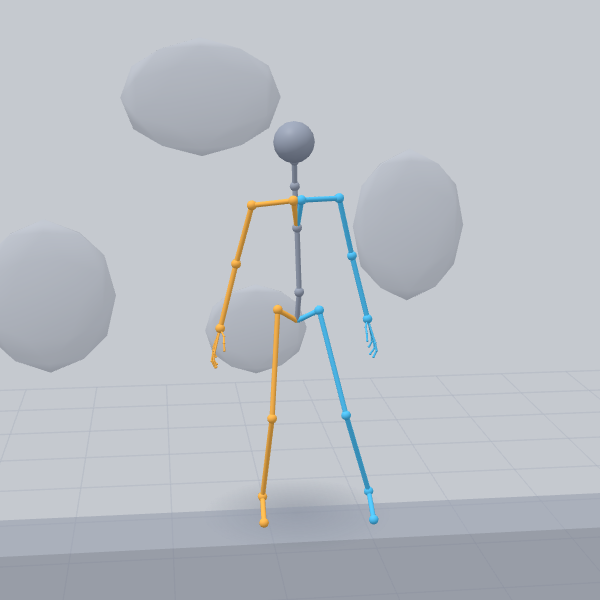
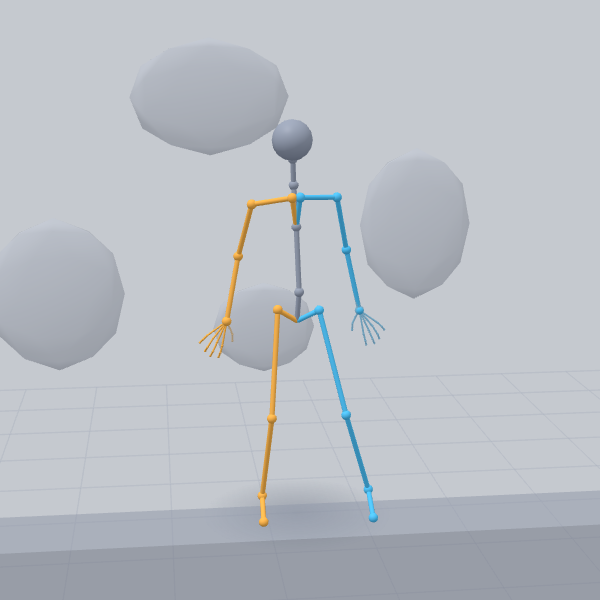
Rest the palms on the wall along a ledge
The touch controller gets a brace mode: the caller gives, every frame, the
point, the normal, the direction of the fingers and the weight, and the
hand rests on the surface with the same pose as when touching, without
reaching or letting go.

Along a ledge, each palm rests on the wall beside the hips, a little below
them, with the fingers pointing down and slightly out. The wall behind
each hand is measured like the one behind the back (one hand per frame),
so the palms slide along it with the body and follow its bumps; where
there is no wall behind a hand, that arm hangs as before.

diff --git a/src/locomotion/LocomotionController.ts b/src/locomotion/LocomotionController.ts
@@ -344,6 +344,15 @@ const LEDGE_ROLL = 0.15;
  */
 const LEDGE_WALL_REACH = 0.8;
 const BACK_HALF_WIDTH = 0.18;
+/**
+ * Along a ledge, the palms rest on the wall behind: each one LEDGE_HAND_SPREAD to the side of the hips and
+ * LEDGE_HAND_HEIGHT above them (× stepLength; negative = below), the fingers pointing down and LEDGE_FINGERS_OUT out
+ * to the side (rad). The wall is looked for in a band of ±LEDGE_HAND_BAND (× stepLength) around that height.
+ */
+const LEDGE_HAND_SPREAD = 0.4;
+const LEDGE_HAND_HEIGHT = -0.08;
+const LEDGE_FINGERS_OUT = (25 * Math.PI) / 180;
+const LEDGE_HAND_BAND = 0.1;
 const LEDGE_CENTERING = 8;
 /**
  * Against an irregular wall, how much the trunk leans (back or forward) to keep both the hips and the shoulder
@@ -526,6 +535,12 @@ export class LocomotionController {
    */
   private readonly wallSamples: number[] = new Array<number>(6).fill(Number.NEGATIVE_INFINITY);
   private wallSample = 0;
+  /** Where the wall is behind each hand along a ledge (m along `ledgeFacing`, like `wallSamples`); one measured per frame. */
+  private readonly handWall: Record<Side, number> = { left: Number.NEGATIVE_INFINITY, right: Number.NEGATIVE_INFINITY };
+  private handWallSide: Side = 'left';
+  private readonly handAt = new Vector3();
+  private readonly handRight = new Vector3();
+  private readonly handFingers = new Vector3();
   /** Along an irregular wall: lean of the trunk (rad, + forward) and how far the hips go back (m). */
   private ledgeLean = 0;
   private ledgeHipBack = 0;
@@ -729,6 +744,7 @@ export class LocomotionController {
     this.ledgeLean = 0;
     this.ledgeHipBack = 0;
     this.wallSamples.fill(Number.NEGATIVE_INFINITY);
+    this.handWall.left = this.handWall.right = Number.NEGATIVE_INFINITY;
     this.planner.landingShift.set(0, 0, 0);
     this.stairLimit = Number.POSITIVE_INFINITY;
     this.stairLean = 0;
@@ -1127,6 +1143,7 @@ export class LocomotionController {
     }
     this.lastRootHeight = rootHeight;
     this.touch.update(this.touchMotion(dt), this.surfaces);
+    this.braceOnWall(kl);
     // Haciendo equilibrio, con una mano apoyada en algo (una baranda, una pared) ya se sostiene: el otro brazo baja
     // casi a la pose normal (narrowTouchRelax) y deja de corregir.
     const steadied = Math.max(this.touch.weight('left'), this.touch.weight('right')) * c.narrowTouchRelax;
@@ -2072,6 +2089,45 @@ export class LocomotionController {
     }
     this.ledgeLean += (lean * kl - this.ledgeLean) * follow;
     this.ledgeHipBack += (hipBack * kl - this.ledgeHipBack) * follow;
+  }
+
+  /**
+   * Along a ledge, the palms against the wall behind, on each side of the hips (see LEDGE_HAND_SPREAD), with the
+   * fingers pointing down and out: the touch controller's `brace`, as much as the ledge blend. Where there is no
+   * wall within reach behind a hand, that hand swings as usual.
+   */
+  private braceOnWall(kl: number): void {
+    const s = this.body.state;
+    const measured = this.handWallSide;
+    this.handWallSide = measured === 'left' ? 'right' : 'left';
+    const active = kl > 0 && this.ledgeFaced && !s.airborne;
+    for (const side of SIDES) {
+      if (!active) {
+        this.handWall[side] = Number.NEGATIVE_INFINITY;
+        this.touch.brace(side, this.handAt, UP, UP, 0);
+        continue;
+      }
+      const out = this.ledgeFacing;
+      const unit = this.config.stepLength;
+      const sign = side === 'right' ? 1 : -1;
+      const right = this.handRight.crossVectors(out, UP).normalize();
+      const at = worldPosition(this.rig.hips, this.handAt).addScaledVector(right, sign * LEDGE_HAND_SPREAD * unit);
+      at.y += LEDGE_HAND_HEIGHT * unit;
+      const base = at.x * out.x + at.z * out.z;
+      if (side === measured) {
+        const band = LEDGE_HAND_BAND * unit;
+        const reach = LEDGE_WALL_REACH * unit;
+        this.handWall[side] = base - this.ledgePath.wallDistance(at, out, at.y - band, at.y + band, reach, base - this.handWall[side], this.ledgeRays);
+      }
+      const wall = this.handWall[side];
+      if (!Number.isFinite(wall)) {
+        this.touch.brace(side, at, out, UP, 0);
+        continue;
+      }
+      at.addScaledVector(out, wall - base);
+      const fingers = this.handFingers.copy(UP).multiplyScalar(-Math.cos(LEDGE_FINGERS_OUT)).addScaledVector(right, sign * Math.sin(LEDGE_FINGERS_OUT));
+      this.touch.brace(side, at, out, fingers, kl);
+    }
   }
 
   /**

diff --git a/src/body/TouchController.ts b/src/body/TouchController.ts
@@ -108,6 +108,8 @@ interface Hand {
   phase: TouchPhase;
   /** How much the gesture overrides the swing (0–1) and its value when the phase started. */
   weight: number;
+  /** Resting on a surface that the caller follows every frame (see `brace`): no reaching or letting go. */
+  braced: boolean;
   from: number;
   /** Time in the current phase (s). */
   time: number;
@@ -439,6 +441,7 @@ export class TouchController {
     for (const hand of Object.values(this.hands)) {
       hand.phase = 'none';
       hand.weight = 0;
+      hand.braced = false;
     }
     this.cooldown = 0;
     this.scanTimer = 0;
@@ -486,6 +489,42 @@ export class TouchController {
   }
 
   /**
+   * Keeps a hand resting on a surface that the caller follows every frame, e.g. the wall behind the back along a
+   * ledge: the palm against it at `point` (world) with `normal` (towards the character) and the fingers pointing
+   * along `fingers` (on the surface). `weight` (0–1) is how much it overrides the swing: the caller blends it in
+   * and out, there is no gesture of reaching or letting go (with 0 the hand goes back to the swing). Takes over any
+   * gesture of that hand. After `update` and before `apply`.
+   */
+  brace(side: Side, point: Vector3, normal: Vector3, fingers: Vector3, weight: number): void {
+    const hand = this.hands[side];
+    if (!hand) return;
+    if (!(weight > 0)) {
+      if (hand.braced) {
+        hand.braced = false;
+        hand.phase = 'none';
+        hand.weight = 0;
+        hand.hasActual = false;
+      }
+      return;
+    }
+    if (!hand.braced) {
+      hand.braced = true;
+      hand.phase = 'contact';
+      hand.hold = true;
+      hand.slide = false;
+      hand.time = 0;
+      hand.bulgeSet = false;
+      hand.pathSet = false;
+    }
+    hand.point.copy(point);
+    hand.normal.copy(normal).normalize();
+    this.finger.copy(fingers).addScaledVector(hand.normal, -fingers.dot(hand.normal)).normalize();
+    worldPosition(hand.bones.upperArm, this.shoulder);
+    this.contactPose(hand, hand.point, hand.normal, this.shoulder, hand.wrist, hand.rotation, this.finger);
+    hand.weight = Math.min(weight, 1);
+  }
+
+  /**
    * Advances the gestures and, in `auto` mode, looks for surfaces. Before moving the arms (the fingers open
    * with `weight`).
    */
@@ -506,7 +545,7 @@ export class TouchController {
     this.dt = dt;
     this.cooldown = Math.max(this.cooldown - dt, 0);
     for (const hand of Object.values(this.hands)) {
-      if (hand.phase === 'none') continue;
+      if (hand.phase === 'none' || hand.braced) continue;
       hand.time += dt;
       worldPosition(hand.bones.upperArm, this.shoulder);
       // Acercándose, cuenta dónde estará el hombro al tocar.
@@ -1248,6 +1287,7 @@ function createHand(side: Side, bones: ArmBones, sign: number): Hand {
     palmLocal: palm.applyQuaternion(inverse),
     phase: 'none',
     weight: 0,
+    braced: false,
     from: 0,
     time: 0,
     hold: false,

diff --git a/tests/ledge.test.ts b/tests/ledge.test.ts
@@ -157,6 +157,34 @@ describe('cornisas', () => {
     assert.ok(afterLedge === 0 && afterTurn < 3 * DEG, `en la plataforma: ledge ${afterLedge}, girado ${(afterTurn / DEG).toFixed(1)}°`);
   });
 
+  it('las palmas, apoyadas en la pared a cada lado de las caderas, con los dedos hacia abajo', () => {
+    const world = ledgeWorld();
+    const { human } = world;
+    let frames = 0;
+    let worst = 0;
+    let minWeight = 1;
+    let fingersUp = -Infinity;
+    simulate(world, 9, [[0, (h) => { h.targetSpeed = 1; }]], {
+      onFrame: () => {
+        // Ya asentado: al entrar, frenando, la espalda (y con ella las manos) aún se acerca a la pared.
+        if (human.ledge < 0.999 || ++frames < 60) return;
+        for (const side of SIDES) {
+          const arm = side === 'left' ? human.rig.leftArm! : human.rig.rightArm!;
+          const wrist = arm.hand.getWorldPosition(new Vector3());
+          const knuckle = (arm.fingers?.middle?.[0] ?? arm.hand).getWorldPosition(new Vector3());
+          // Muñeca y nudillos, a lo sumo a 3 cm de la pared (el grosor de la mano): la palma, plana sobre ella.
+          worst = Math.max(worst, WALL_X - wrist.x, WALL_X - knuckle.x);
+          minWeight = Math.min(minWeight, human.locomotion.touch.weight(side));
+          fingersUp = Math.max(fingersUp, knuckle.y - wrist.y);
+        }
+      },
+    });
+    assert.ok(frames > 180, `en la cornisa ${frames} frames`);
+    assert.ok(minWeight > 0.999, `apoyo ${minWeight.toFixed(3)}`);
+    assert.ok(worst < 0.03, `mano a ${(worst * 100).toFixed(1)} cm de la pared`);
+    assert.ok(fingersUp < 0, `dedos hacia arriba (${(fingersUp * 100).toFixed(1)} cm)`);
+  });
+
   it('contra una pared irregular, la espalda sigue en ella y el cuerpo no gira', () => {
     // Salientes de 4 a 8 cm en la pared, a distintas alturas, de 40 cm a lo largo.
     const bumps: [y: number, h: number, depth: number, z: number][] = [

diff --git a/docs/es/guide.md b/docs/es/guide.md
@@ -496,9 +496,11 @@ los caminos angostos: la pared es suelo al menos 1,1 m (escalado con el tamaño)
   pared sobresale más a una altura que a la otra, el tronco se inclina hacia atrás (o la cadera va hacia atrás) hasta
   10° para tocarla en las dos. Lo que sobresale la espalda detrás de la cadera se mide en la malla del modelo (sin
   malla, las proporciones habituales).
-- Los brazos cuelgan a los costados, algo abiertos y hacia atrás, con las manos en la pared (`ledgeArmAbduction`,
-  `ledgeArmForward`, `ledgeElbowBend`), y la cabeza mira un poco hacia abajo y hacia donde va (`ledgeGaze`).
-  Mientras, no toca superficies con las manos.
+- Las palmas se apoyan en la pared a cada lado de la cadera, algo más abajo, con los dedos hacia abajo y un poco hacia
+  fuera; se deslizan por ella con el cuerpo y siguen sus irregularidades. Donde no hay pared detrás de una mano (pasado
+  su final), ese brazo cuelga al costado, algo abierto y hacia atrás (`ledgeArmAbduction`, `ledgeArmForward`,
+  `ledgeElbowBend`). La cabeza mira un poco hacia abajo y hacia donde va (`ledgeGaze`). Mientras, no toca otras
+  superficies con las manos (`locomotion.touch.brace` es lo que mantiene una mano apoyada en una superficie que sigues).
 
 Se controla como siempre: el sentido de `targetHeading` (o de `moveTo`) a lo largo de la cornisa dice hacia dónde
 va. Si se le pide ir hacia el otro lado, se para y vuelve sin darse la vuelta; hacia la pared o hacia el vacío (a más

diff --git a/docs/en/guide.md b/docs/en/guide.md
@@ -488,9 +488,11 @@ doesn't count. `ledge` (0–1) says how much it is doing it, and changes over `1
   most; if the wall sticks out more at one height than at the other, the trunk leans back (or the hips go back) up to
   10° to touch it at both. How far the back sticks out behind the hips is measured on the model's mesh (without
   meshes, the usual proportions).
-- The arms hang by its sides, a little open and back, with the hands against the wall (`ledgeArmAbduction`,
-  `ledgeArmForward`, `ledgeElbowBend`), and the head looks a little down and towards where it goes (`ledgeGaze`).
-  It doesn't touch surfaces with the hands meanwhile.
+- The palms rest on the wall on each side of the hips, a little below them, with the fingers pointing down and
+  slightly out; they slide along it with the body and follow its irregularities. Where there is no wall behind a hand
+  (past the end of it), that arm hangs by its side, a little open and back (`ledgeArmAbduction`, `ledgeArmForward`,
+  `ledgeElbowBend`). The head looks a little down and towards where it goes (`ledgeGaze`). It doesn't touch other
+  surfaces with the hands meanwhile (`locomotion.touch.brace` is what keeps a hand resting on a surface you follow).
 
 It is controlled as usual: the direction of `targetHeading` (or of `moveTo`) along the ledge sets which way it
 goes. Asked to go the other way, it stops and goes back without turning round; asked towards the wall or the drop

diff --git a/docs/es/development.md b/docs/es/development.md
@@ -153,7 +153,7 @@ referencias exactas lo comprueban.
 Raycasts por personaje: 1 por frame (sonda de la raíz, que además detecta cambios del suelo bajo el cuerpo) y
 ~14 al empezar cada paso (aterrizaje: talón y punta; altura del arco: 12 muestras de la punta), más 1 cada 0,25 s
 buscando caminos angostos y otro buscando cornisas (cada 1 s parado; ~20 en un camino angosto o al encontrar una
-cornisa, ver `NarrowPath` y `Ledge`, y 5–9 por frame en una cornisa). Parado, la
+cornisa, ver `NarrowPath` y `Ledge`, y ~10 por frame en una cornisa: la pared detrás de la espalda y de las manos). Parado, la
 comprobación de si los pies están recolocados (4 raycasts) se reutiliza mientras la matriz de la raíz no cambie
 y se repite cada `IDLE_RECHECK_TIME` (0,25 s) para notar cambios de configuración o del terreno bajo los pies.
 `tests/raycasts.test.ts` fija el presupuesto (parado ≤ 1,3/frame, caminando ≤ 1,62, corriendo ≤ 1,89).

diff --git a/docs/en/development.md b/docs/en/development.md
@@ -159,7 +159,7 @@ check it.
 Raycasts per character: 1 per frame (root probe, which also detects changes in the ground under the body)
 and ~14 at the start of each step (landing: heel and toes; arc height: 12 samples of the toes), plus 1 every
 0.25 s looking for narrow paths and 1 more looking for ledges (every 1 s standing still; ~20 on a narrow path or
-when it finds a ledge, see `NarrowPath` and `Ledge`, and 5–9 per frame along a ledge). Standing
+when it finds a ledge, see `NarrowPath` and `Ledge`, and ~10 per frame along a ledge: the wall behind the back and behind the hands). Standing
 still, the check of whether the feet are settled (4 raycasts) is reused while the root matrix doesn't
 change and repeated every `IDLE_RECHECK_TIME` (0.25 s) to notice changes in the configuration or the
 terrain under the feet. `tests/raycasts.test.ts` sets the budget (standing ≤ 1.3/frame, walking ≤ 1.62,
